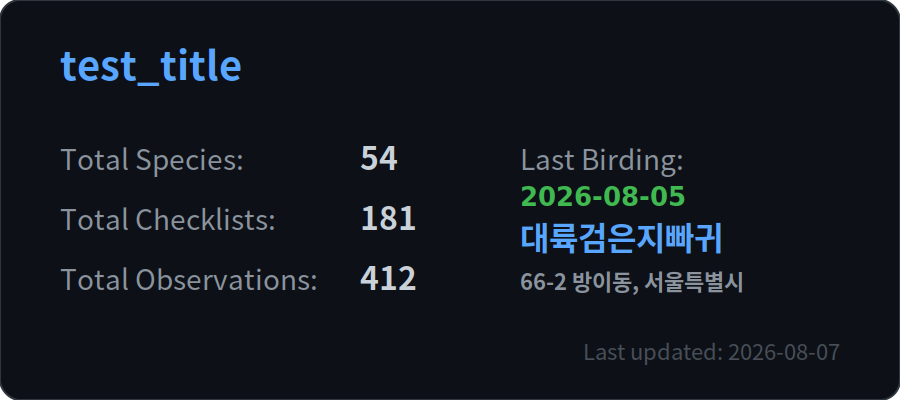
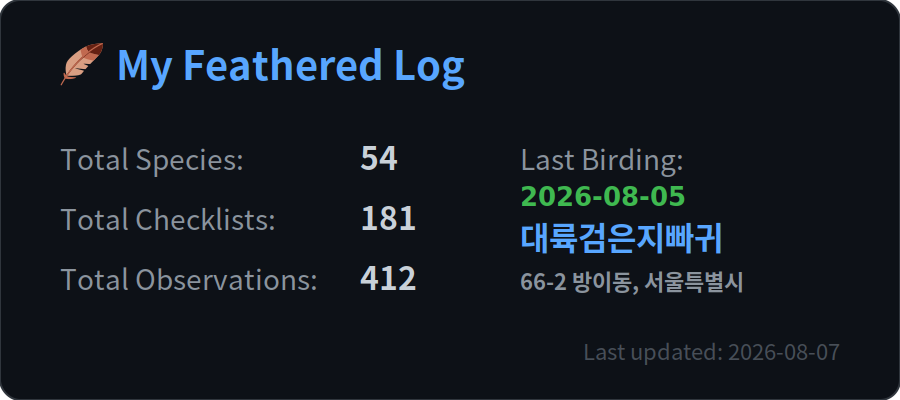
test

Changed region(s): [[0.0622, 0.09, 0.5289, 0.24]]

diff --git a/src/ebird_readme_card/freq-bird-ranking.py b/src/ebird_readme_card/freq-bird-ranking.py
@@ -79,7 +79,10 @@ def main():
 
     svg_template = f"""
     <svg width="450" height="260" xmlns="http://www.w3.org/2000/svg" xmlns:xlink="http://www.w3.org/1999/xlink" viewBox="0 0 450 260">
-        <a xlink:href="https://github.com/{github_repo}" target="_blank">
+        <a xlink:href="https://github.com/oseconds/eBird-card" target="_blank">
+        <metadata>
+            Generated with eBird-card (https://github.com/oseconds/eBird-card)
+        </metadata>
             <style>
                 .bg {{ fill: #0d1117; stroke: #30363d; stroke-width: 1px; rx: 10px; }}
                 .title {{ font: 600 20px 'Noto Sans CJK KR', 'Noto Sans CJK JP', 'Segoe UI', Ubuntu, Sans-Serif; fill: #58a6ff; cursor: pointer; }}
@@ -93,7 +96,7 @@ def main():
             <line x1="30" y1="55" x2="420" y2="55" class="divider"/>
             {ranking_svg_elements}
             
-            <text x="420" y="240" class="footer">Observation frequency ranking • {today_date}</text>
+            <text x="420" y="240" class="footer">Last Update • {today_date}</text>
             <rect width="100%" height="100%" fill="transparent" cursor="pointer"/>
         </a>
     </svg>
